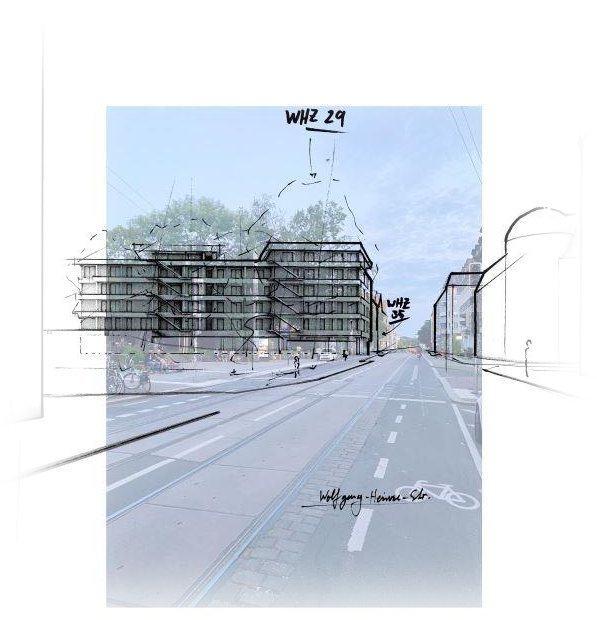
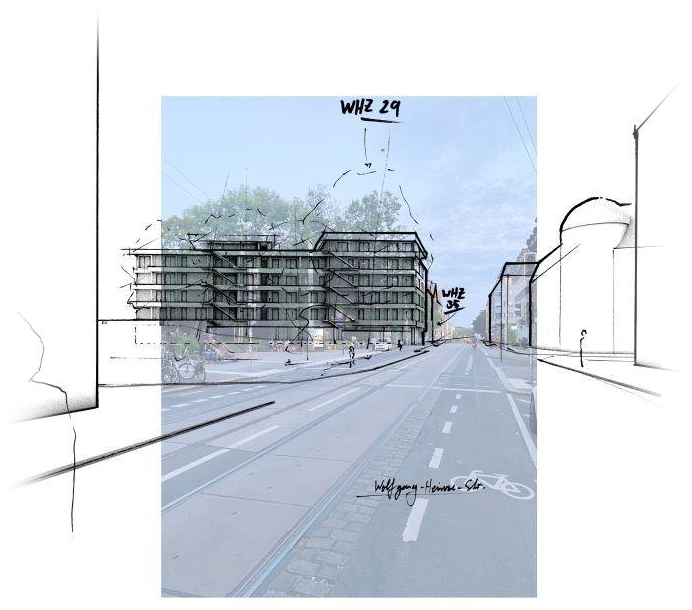
feat: expanded direktkredit card with visitor explanation; house cutout now includes full facade

Changed region(s): [[0.0302, 0.0623, 0.9648, 0.9967], [0.0603, 0.1869, 0.0905, 0.218]]

diff --git a/index.html b/index.html
@@ -153,9 +153,12 @@
           <p class="hint">Oder per Banküberweisung (IBAN siehe oben): Verwendungszweck <strong>„Soli-Essenmarke“</strong> plus Anzahl, z.&nbsp;B. „Soli-Essenmarke 5×“.</p>
         </div>
         <div class="donate-card">
-          <h3>Direktkredit</h3>
-          <p>Du kannst uns auch direkt Geld leihen – zum Beispiel zinslos. Wie das genau funktioniert (Laufzeit, Rückzahlung, Vertrag), erklären wir ausführlich in unserem Blog. <strong>Blog folgt in Kürze.</strong></p>
-          <p>Interesse? Schreib uns: <a href="mailto:kontakt@fundraiskantine.de">kontakt@fundraiskantine.de</a></p>
+          <h3>Direktkredit – so funktioniert's</h3>
+          <p><strong>Was ist ein Direktkredit?</strong> Du leihst uns direkt Geld – z.&nbsp;B. zinslos oder mit niedrigem Zins – statt dass wir einen Bankkredit aufnehmen. Damit finanzieren wir Küchenausstattung und Gastraumeinrichtung, bis Fördermittel oder eigene Einnahmen anlaufen.</p>
+          <p><strong>So läuft es ab:</strong> Du bekommst einen schriftlichen Darlehensvertrag mit Betrag, Zinssatz, Laufzeit und Rückzahlung. Rechtssicher strukturieren wir die Kredite als <em>qualifizierte Nachrangdarlehen</em> – die übliche Form für Vereine und Genossenschaften (dafür braucht es keine Banklizenz und keine Prospektpflicht).</p>
+          <p><strong>Wichtig für dich:</strong> Bei einem Nachrangdarlehen wird im Insolvenzfall erst nach allen anderen Gläubigern zurückgezahlt – deshalb ist die Verzinsung begrenzt (maximal marktüblich). Zinslos ist möglich. Erhaltene Zinsen musst du wie üblich versteuern (Abgeltungsteuer).</p>
+          <p><strong>Interesse?</strong> Schreib uns Betrag, gewünschte Laufzeit und Konditionen an <a href="mailto:kontakt@fundraiskantine.de">kontakt@fundraiskantine.de</a> – wir melden uns mit einem Vertragsentwurf.</p>
+          <p class="hint">Diese Seite ist eine Information, kein öffentliches Angebot. Verbindlich ist allein der schriftliche Darlehensvertrag. Die letzte rechtliche Prüfung erfolgt durch Steuerberater/Rechtsanwalt des Vereins.</p>
         </div>
       </div>
     </div>
